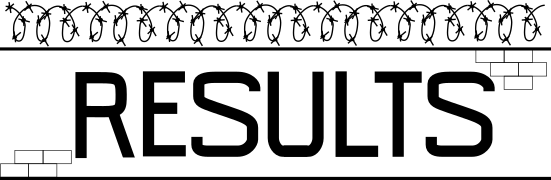
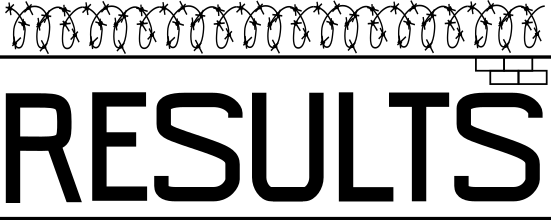
The taller results wall
2.5:1 rather than 3.06:1, so at the same width it stands 84px instead of 68px
and the lettering carries more of the panel. Ink clean, as the last one was.

Claude-Session: https://claude.ai/code/session_01XhFLHjvBijGjrqEu8YRa3e

diff --git a/web/index.html b/web/index.html
@@ -118,7 +118,7 @@
   <div id="results" hidden>
     <!-- The panel's name is in the artwork, as the app's own is. -->
     <h2 class="results-title">
-      <img src="img/results-title.png" alt="Results" width="551" height="180">
+      <img src="img/results-title.png" alt="Results" width="551" height="220">
     </h2>
     <!-- The whole map, or one region's count in detail. -->
     <div class="view-switch" role="group" aria-label="View" hidden>
